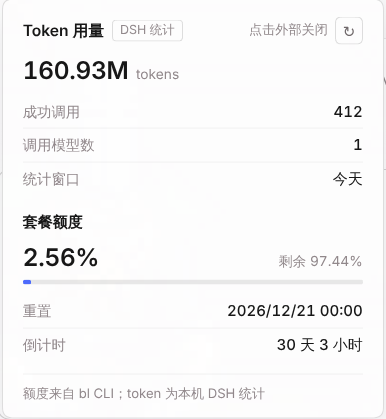
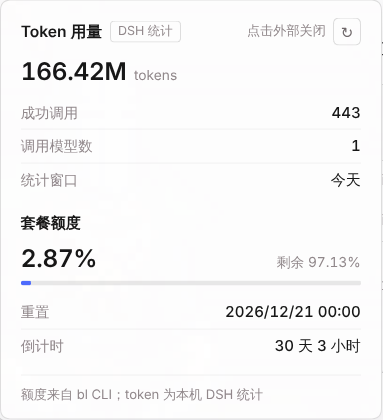
docs: centered hero screenshots, refresh the popover image
A right-floated image ran under the next heading's border rule, which cut it
in half on GitHub. Both figures are now block-level and centered, and the
popover shot is the latest build.

diff --git a/README.en.md b/README.en.md
@@ -16,7 +16,9 @@ A `Plan 1.24%` pill in the composer row opens a card with token usage and the mo
 
 </div>
 
-<img src="docs/popover.png" width="380" align="right" alt="Popover card"/>
+<p align="center">
+  <img src="docs/popover.png" width="380" alt="Popover: token usage and plan allowance"/>
+</p>
 
 ## Why it exists
 
@@ -33,6 +35,10 @@ It **never reads, stores, or transmits an API key**, and never touches `~/.baili
 - **Composer pill**: `Plan 1.24%`, two decimals. The dot shifts colour as the month fills (green <70%, amber ≥70%, orange ≥90%, red ≥100%). When the plan expires, the CLI is logged out, or the console returns no quota, the pill **renders nothing** — no empty slot, no squeezed permission or model labels.
 - **Popover on click**: this machine's token usage (total, calls, models, window) plus the allowance (used, left, reset time, countdown). Closes on `Esc` or an outside click.
 - **Settings → Bailian quota**: window presets `Today / Last 7 days / Last 30 days / This month / Last month / Custom dates`; a three-segment stacked bar chart (cached input / uncached input / output) with a per-day hover card; and an allowance card with a progress bar and detail rows.
+
+<p align="center">
+  <img src="docs/settings.png" width="620" alt="Settings: window presets and daily token chart"/>
+</p>
 
 ## Install
 

diff --git a/README.md b/README.md
@@ -16,7 +16,9 @@
 
 </div>
 
-<img src="docs/popover.png" width="380" align="right" alt="胶囊弹层"/>
+<p align="center">
+  <img src="docs/popover.png" width="380" alt="胶囊弹层：Token 用量与套餐额度"/>
+</p>
 
 ## 为什么需要它
 
@@ -33,6 +35,10 @@ bl usage token-plan --output json
 - **工具行胶囊**：`套餐 1.24%`，两位小数。颜色随用量变化（<70% 绿、≥70% 琥珀、≥90% 橙、≥100% 红）；套餐失效 / 未登录 / 读不到数据时**整枚不渲染**，不占位、不挤压权限与模型名。
 - **点击弹出卡片**：本机 Token 用量（总量 / 调用次数 / 模型数 / 统计窗口）+ 套餐额度（已用、剩余、重置时刻、倒计时）。`Esc` 或点击外部关闭。
 - **设置 → 百炼额度**：统计窗口可选 `今天 / 近 7 天 / 近 30 天 / 本月 / 上月 / 自定义日期`；三段堆叠柱状图（命中缓存 / 未命中缓存 / 输出），悬停显示当日明细；套餐额度卡片带进度条与明细行。
+
+<p align="center">
+  <img src="docs/settings.png" width="620" alt="设置页：统计窗口与每日 Token 图表"/>
+</p>
 
 ## 安装
 
